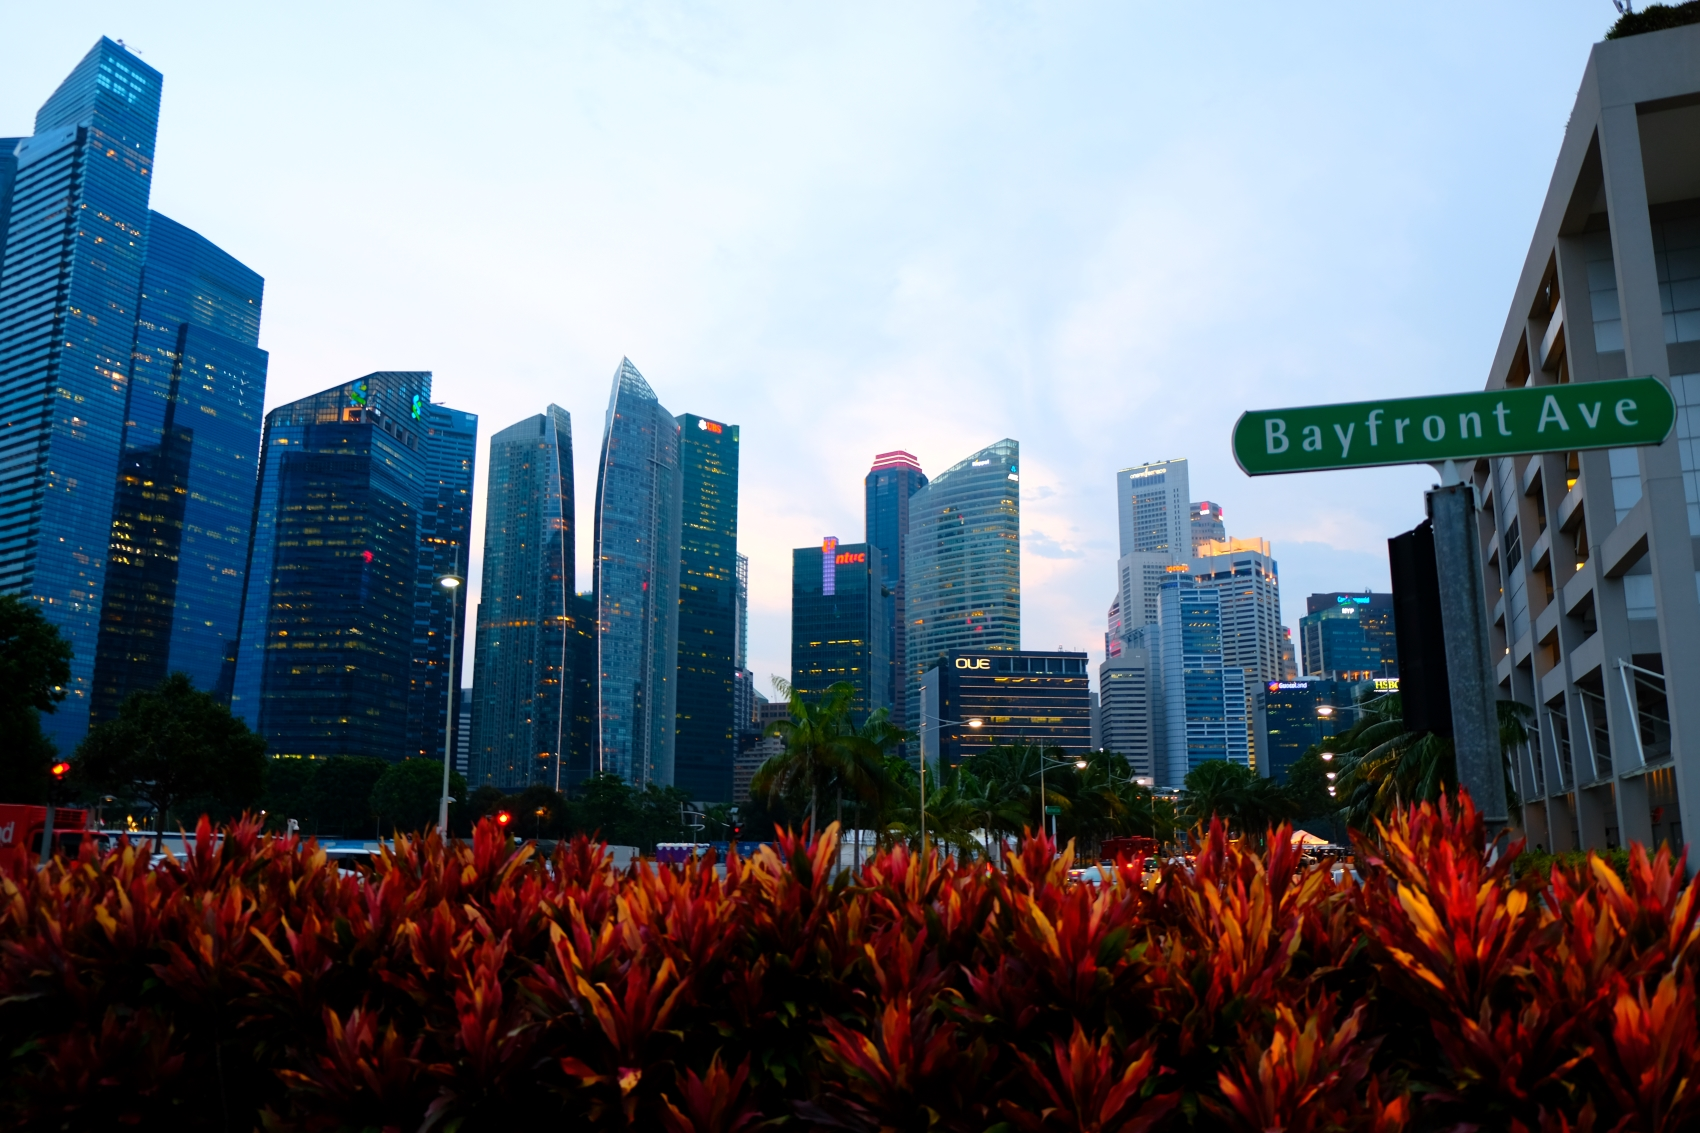
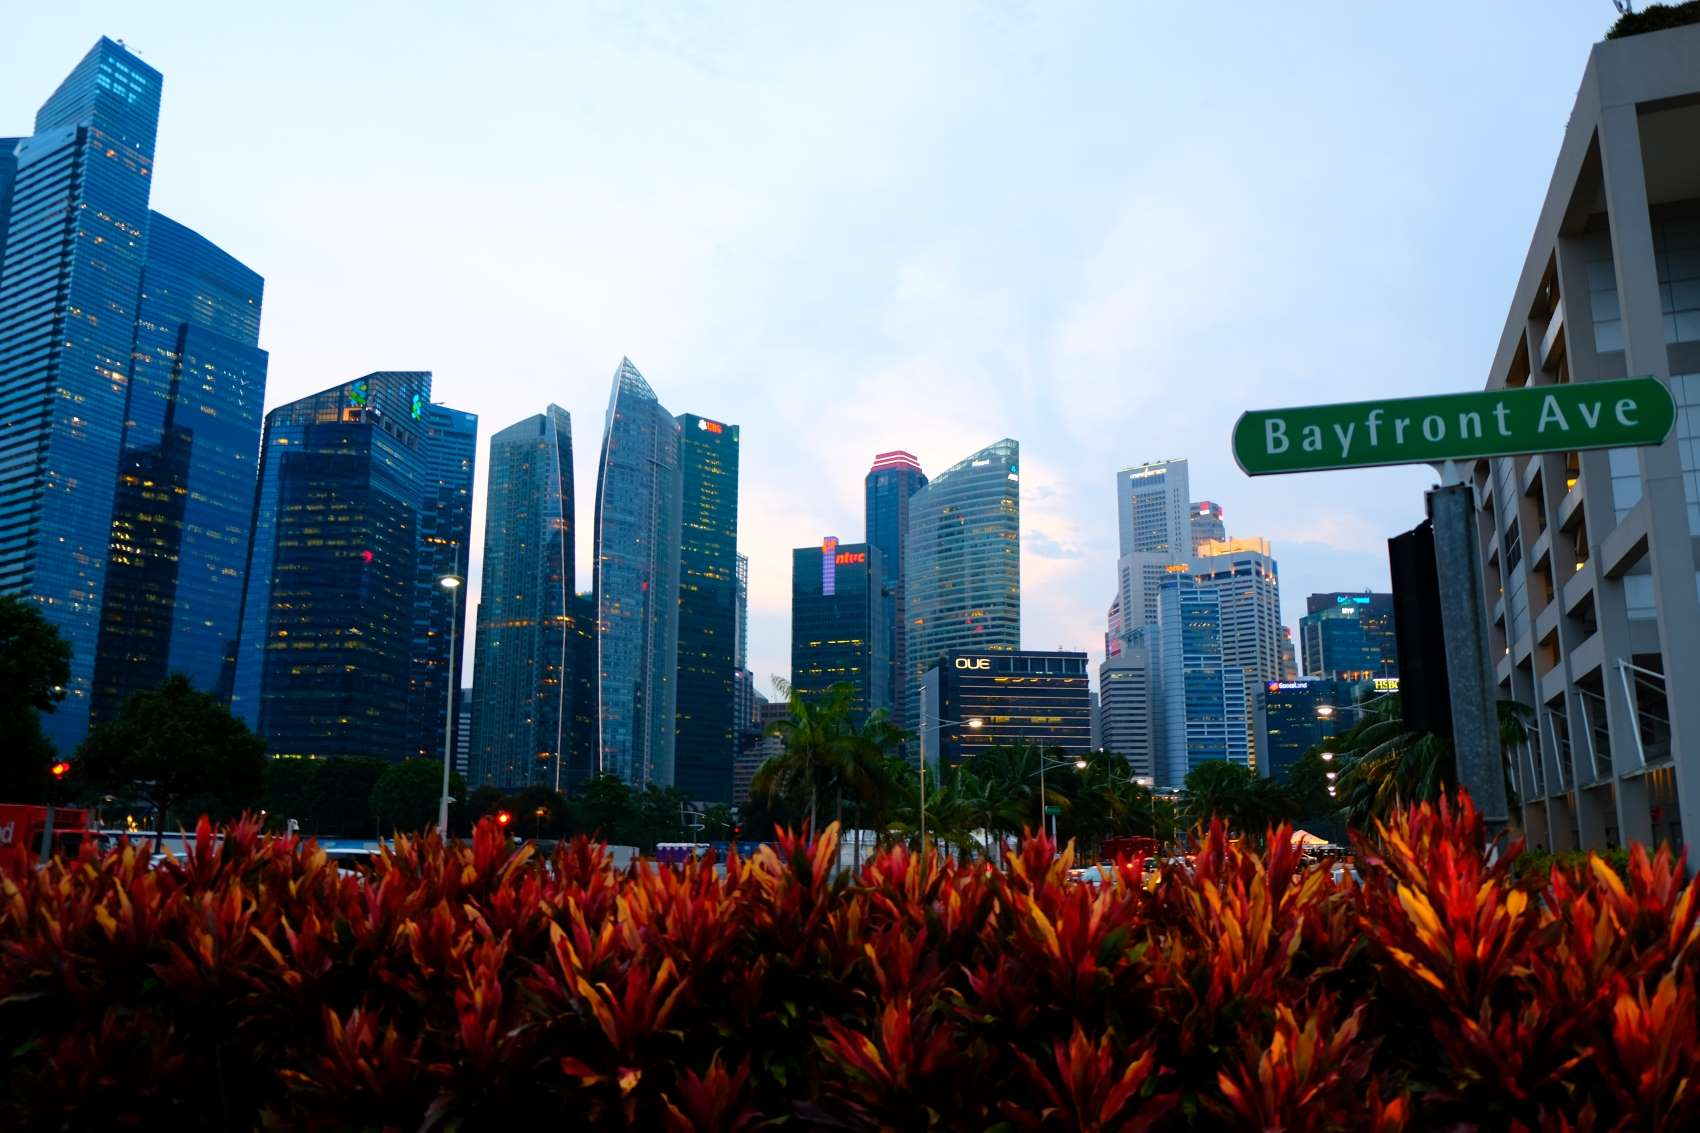
smaller bg-picture, added timeout and age to geolocalisation

Changed region(s): [[0.1871, 0.3398, 0.2182, 0.3707]]

diff --git a/src/App.js b/src/App.js
@@ -17,6 +17,8 @@ function App() {
       const error = (err) =>{}
       const option = {
         enableHighAccuracy: true,
+        timeout: 5000,
+        maximumAge:10000
       };
       
       if (!navigator.geolocation) {
